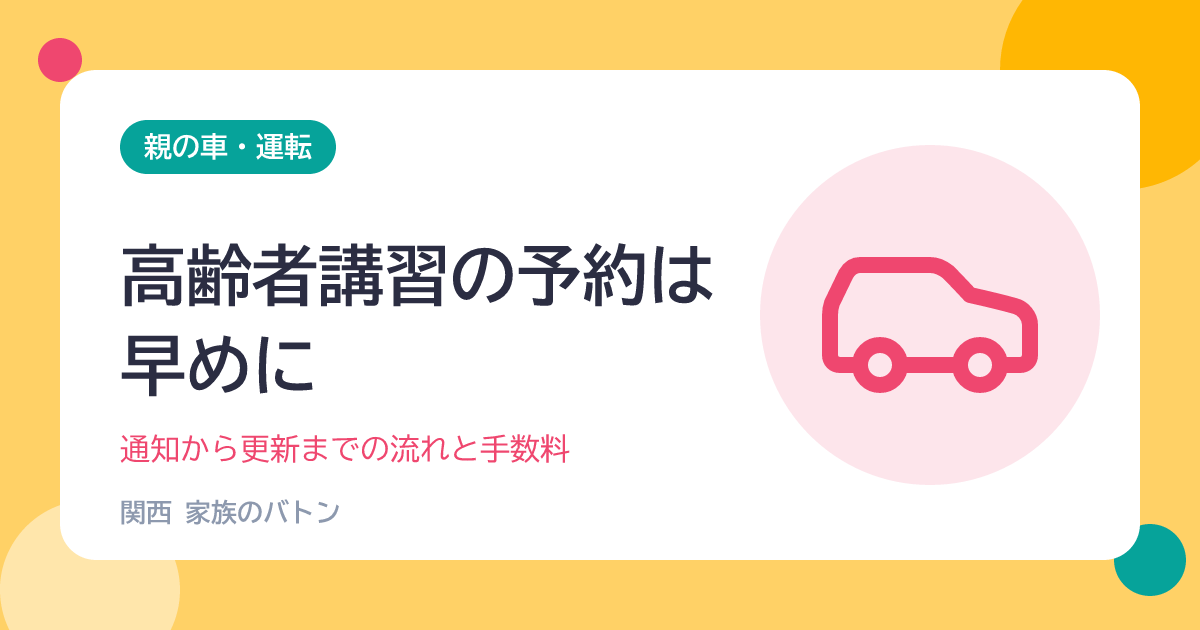
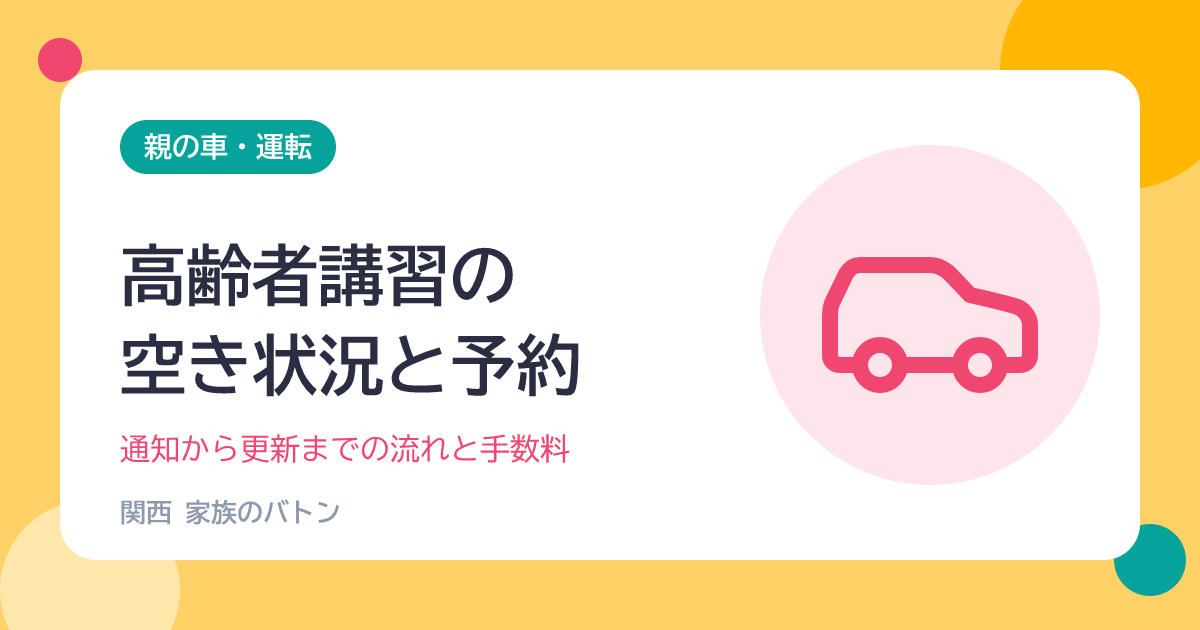
高齢者講習の記事：タイトルに空き状況、予約状況一覧表の見方を追記

Changed region(s): [[0.0925, 0.5127, 0.4933, 0.6333], [0.4317, 0.3921, 0.6167, 0.4825]]

diff --git a/content/blog/koureisha-koushuu-yoyaku.md b/content/blog/koureisha-koushuu-yoyaku.md
@@ -1,8 +1,9 @@
 ---
-title: "高齢者講習の予約は早めに｜大阪府は会場によって3か月先まで埋まることも。通知から更新までの流れと手数料"
-eyecatchTitle: "高齢者講習の予約は早めに"
+title: "高齢者講習の空き状況と予約｜大阪府は会場によって3か月先まで埋まることも。予約状況一覧表の見方、通知から更新までの流れと手数料"
+eyecatchTitle: "高齢者講習の空き状況と予約"
 eyecatchSub: "通知から更新までの流れと手数料"
 date: "2026-10-18"
+updated: "2026-10-26"
 icon: "kuruma"
 categories: ["oya-kuruma"]
 description: "70歳以上の免許更新に必要な高齢者講習・認知機能検査・運転技能検査は、教習所や試験場に自分で予約します。大阪府警察の予約状況一覧表（2026年9月30日時点）では、会場によって予約できるのが10月上旬から翌年1月上旬までと差がありました。通知が届く時期、予約のコツ、標準の手数料（講習6,600円・認知機能検査1,050円・運転技能検査3,650円）を整理しました。"
@@ -42,7 +43,15 @@ related: ["koureisha-menkyo-koushin", "koureisha-unten-toukei", "menkyo-jishu-he
 
 つまり、**同じ大阪府内でも、会場を選べば3か月近く早く受けられる**ことがあります。家から近い会場が混んでいたら、少し離れた会場も候補にしてみましょう。
 
-この表は毎月のように変わります。最新の状況は大阪府警察のページで確認してください。
+### 空き状況（予約状況一覧表）の見方
+
+大阪府警察の「高齢者講習・認知機能検査・運転技能検査の予約状況一覧表」は、PDFとExcelで公開されています。一覧表に書かれているのは、各会場で**おおむねいつごろから予約できるか**の目安です（2026年10月26日に確認した時点でも、掲載されていたのは2026年9月30日現在の状況でした）。
+
+- 一覧表で、家から行ける範囲の会場を**いくつか**選ぶ
+- 同じページからリンクされている「各教習所等の連絡先」で、電話番号などを確かめる
+- 実際の空きは、**会場に直接問い合わせて**確かめる（一覧表はあくまで予約の参考とされている）
+
+この表は更新されるので、最新の状況は大阪府警察のページで確認してください。
 
 ### 府外の教習所でも受けられる
 
